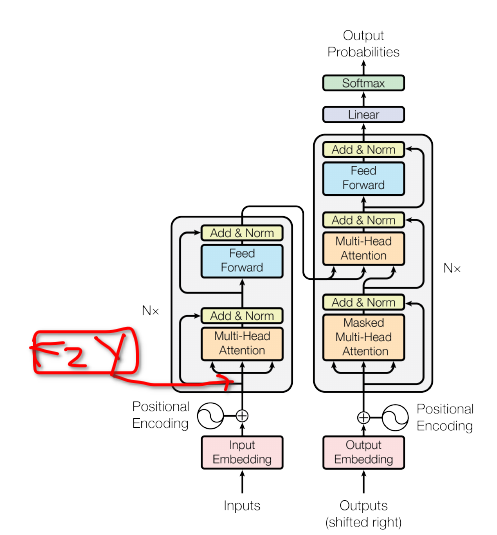
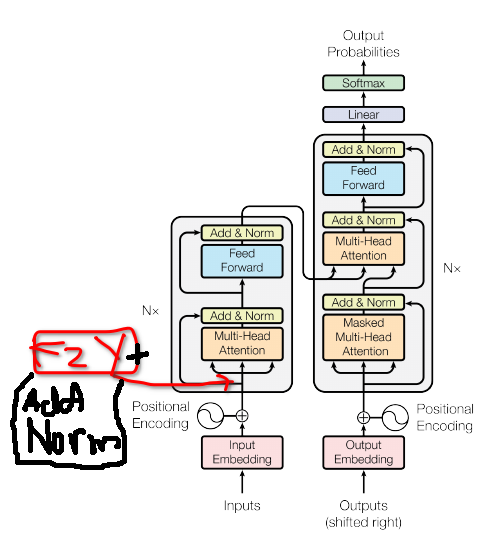
upd: proposal 3 & 4 arch

Changed region(s): [[0.0, 0.6879, 0.2716, 0.8972], [0.2414, 0.628, 0.3018, 0.6879]]

diff --git a/proposal-3.py b/proposal-3.py
@@ -15,8 +15,9 @@ from mymodel.models.nnFairseqTransformer import NNTransformerDecoder
 class Proposal3EncoderLayer(nn.TransformerEncoderLayer):
     r""""
     This is the nn.TransformerEncoderLayer, but with
-    the FuzzyLayer inserted after the first Add&Norm,
+    the FuzzyLayer (with its Add&Norm) inserted after the first Add&Norm,
     which is before the MultiHeadAttention.
+    In Proposal3, output of FuzzyLayer is dmodel. (Therefore dfuzzy==dmodel)
 
     Args:
         d_model: the number of expected features in the input (required).
@@ -71,8 +72,10 @@ class Proposal3EncoderLayer(nn.TransformerEncoderLayer):
         self.norm_first = norm_first
         self.norm1 = nn.LayerNorm(d_model, eps=layer_norm_eps, **factory_kwargs)
         self.norm2 = nn.LayerNorm(d_model, eps=layer_norm_eps, **factory_kwargs)
+        self.norm3 = nn.LayerNorm(d_model, eps=layer_norm_eps, **factory_kwargs)
         self.dropout1 = nn.Dropout(dropout)
         self.dropout2 = nn.Dropout(dropout)
+        self.dropout3 = nn.Dropout(dropout)
 
         # Legacy string support for activation function.
         if isinstance(activation, str):
@@ -96,14 +99,18 @@ class Proposal3EncoderLayer(nn.TransformerEncoderLayer):
 
         x = src
         if self.norm_first:
-            y = self.fuzzy_rule(self.fuzzy_membership(x))
-            x = x + super()._sa_block(self.norm1(y), src_mask, src_key_padding_mask)
+            x = x + self.fuzzy_block(self.norm3(x))
+            x = x + super()._sa_block(self.norm1(x), src_mask, src_key_padding_mask)
             x = x + super()._ff_block(self.norm2(x))
         else:
-            y = self.fuzzy_rule(self.fuzzy_membership(x))
+            x = self.norm3(x + self.fuzzy_block(x))
             x = self.norm1(x + super()._sa_block(y, src_mask, src_key_padding_mask))
             x = self.norm2(x + super()._ff_block(x))
         return x
+
+    def fuzzy_block (self, x: torch.Tensor)->torch.Tensor:
+        x = self.fuzzy_rule(self.fuzzy_membership(x))
+        return self.dropout3(x)
 
 class Proposal3Encoder (FairseqEncoder):
     def __init__(self, max_src_len: int, dictionary, num_layer: int,

diff --git a/proposal-4.py b/proposal-4.py
@@ -15,7 +15,7 @@ from mymodel.models.nnFairseqTransformer import NNTransformerDecoder
 class Proposal4EncoderLayer(nn.TransformerEncoderLayer):
     r""""
     This is the nn.TransformerEncoderLayer, but with
-    the FuzzyLayer inserted after the first Add&Norm,
+    the FuzzyLayer (with its Add&Norm) inserted after the first Add&Norm,
     which is after the MultiHeadAttention.
 
     Args:
@@ -70,9 +70,11 @@ class Proposal4EncoderLayer(nn.TransformerEncoderLayer):
 
         self.norm_first = norm_first
         self.norm1 = nn.LayerNorm(d_model, eps=layer_norm_eps, **factory_kwargs)
-        self.norm2 = nn.LayerNorm(d_model, eps=layer_norm_eps, **factory_kwargs)
+        self.norm2 = nn.LayerNorm(dim_fuzzy, eps=layer_norm_eps, **factory_kwargs)
+        self.norm3 = nn.LayerNorm(d_model, eps=layer_norm_eps, **factory_kwargs)
         self.dropout1 = nn.Dropout(dropout)
         self.dropout2 = nn.Dropout(dropout)
+        self.dropout3 = nn.Dropout(dropout)
 
         # Legacy string support for activation function.
         if isinstance(activation, str):
@@ -97,13 +99,17 @@ class Proposal4EncoderLayer(nn.TransformerEncoderLayer):
         x = src
         if self.norm_first:
             x = x + super()._sa_block(self.norm1(x), src_mask, src_key_padding_mask)
-            y = self.fuzzy_rule(self.fuzzy_membership(x))
-            x = x + super()._ff_block(self.norm2(y))
+            x = x + self.fuzzy_block(self.norm2(x))
+            x = x + super()._ff_block(self.norm3(x))
         else:
             x = self.norm1(x + super()._sa_block(x, src_mask, src_key_padding_mask))
-            y = self.fuzzy_rule(self.fuzzy_membership(x))
-            x = self.norm2(x + super()._ff_block(y))
+            x = self.norm2(x + self.fuzzy_block(x))
+            x = self.norm3(x + super()._ff_block(x))
         return x
+
+    def fuzzy_block (self, x: torch.Tensor)->torch.Tensor:
+        x = self.fuzzy_rule(self.fuzzy_membership(x))
+        return self.dropout3(x)
 
 class Proposal4Encoder (FairseqEncoder):
     def __init__(self, max_src_len: int, dictionary, num_layer: int,
